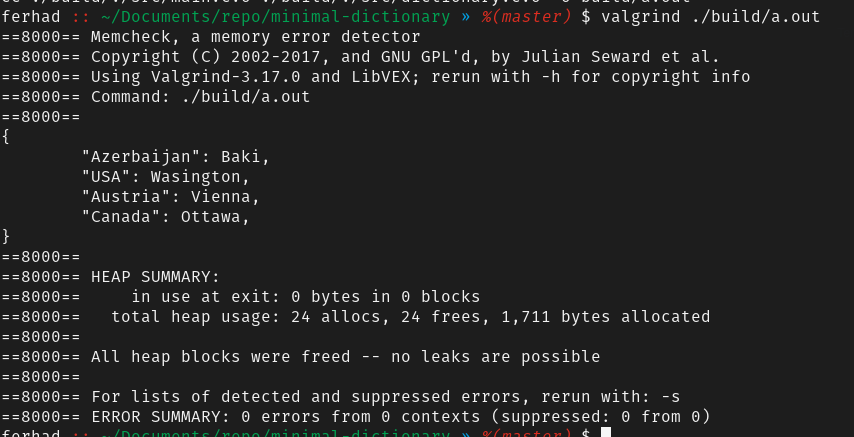
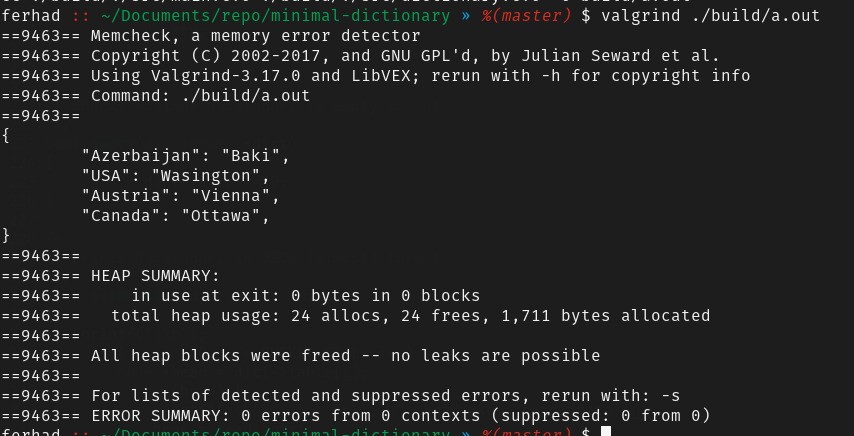
print_dict modified

diff --git a/src/dictionary.c b/src/dictionary.c
@@ -234,7 +234,7 @@ void print_dict(dictionary *dict)
     for (int i = 0; i < BUCKET_SIZE; i++) {
         node *head = dict->table[i];
         while (head) {
-            printf("\t\"%s\": %s,\n", head->key, head->data);
+            printf("\t\"%s\": \"%s\",\n", head->key, head->data);
             head = head->next;
         }
     }
